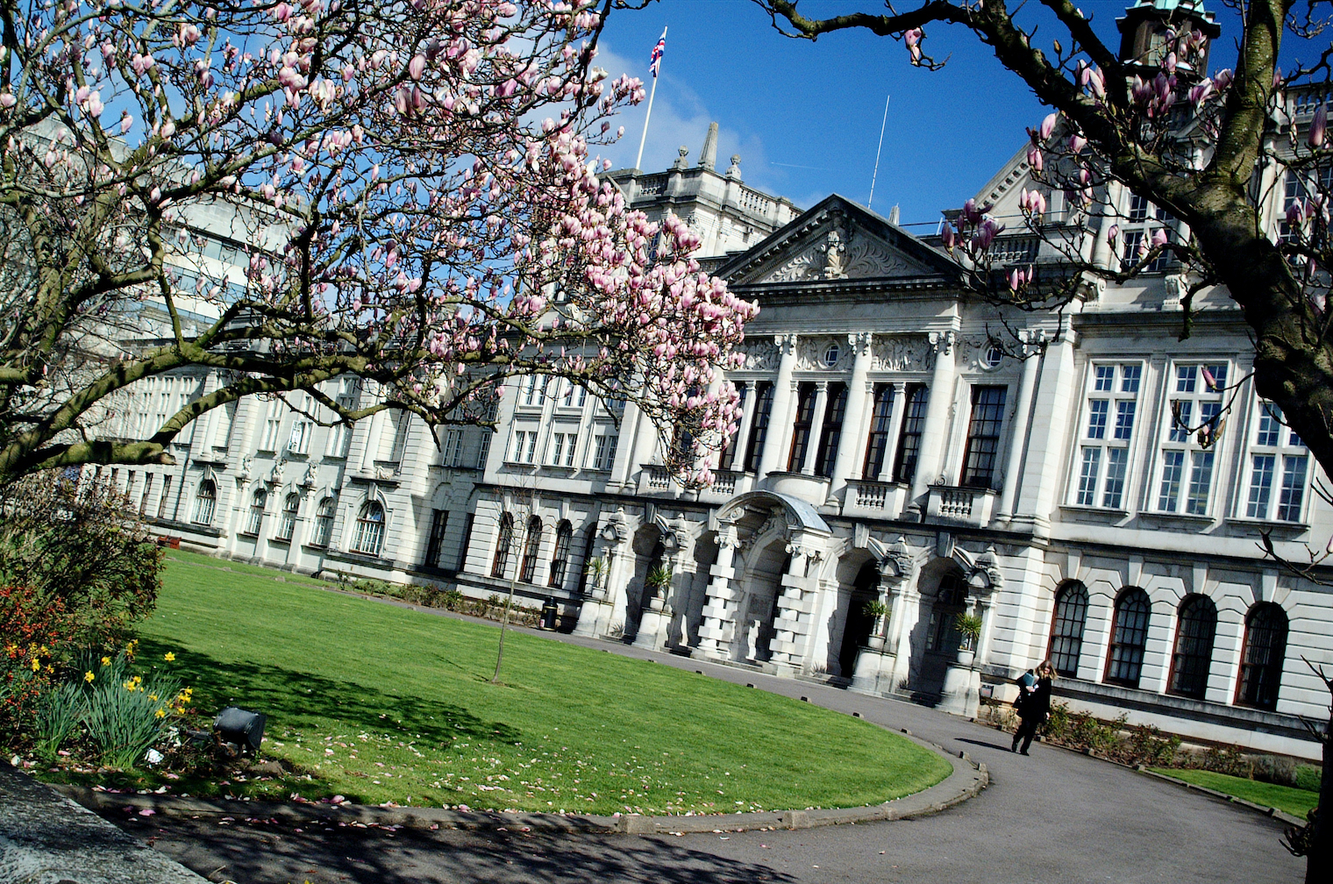
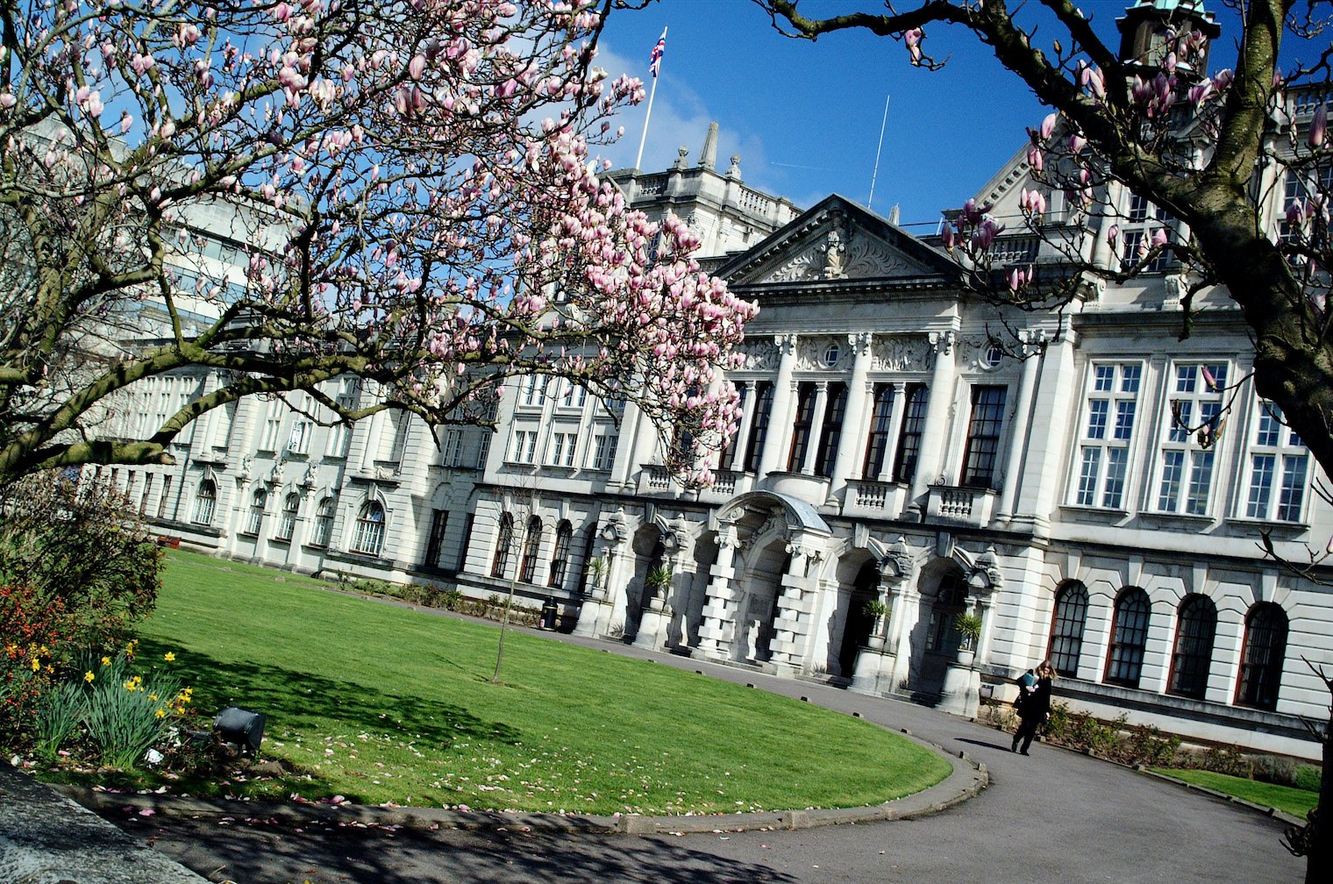
smaller images

diff --git a/src/index.html b/src/index.html
@@ -34,7 +34,7 @@
 
   <!-- css -->
   <link rel="stylesheet" href="css/app.css">
-  <script src="//use.fontawesome.com/974e2a5af3.js"></script>
+  <script async src="//use.fontawesome.com/974e2a5af3.js"></script>
 </head>
 <body>
 
